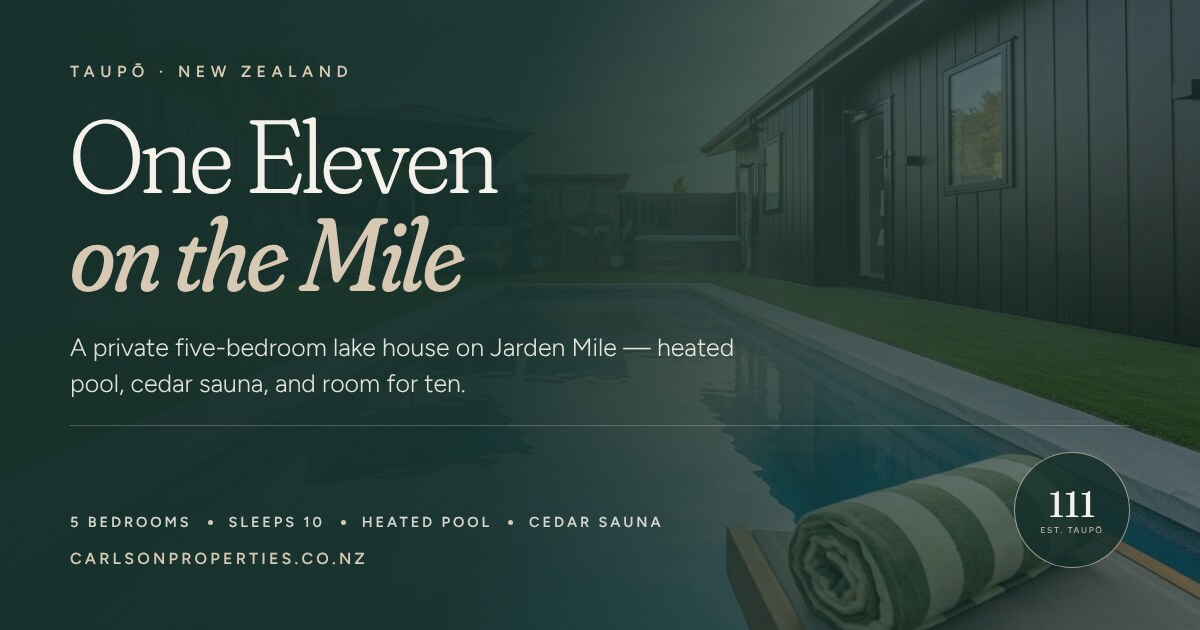
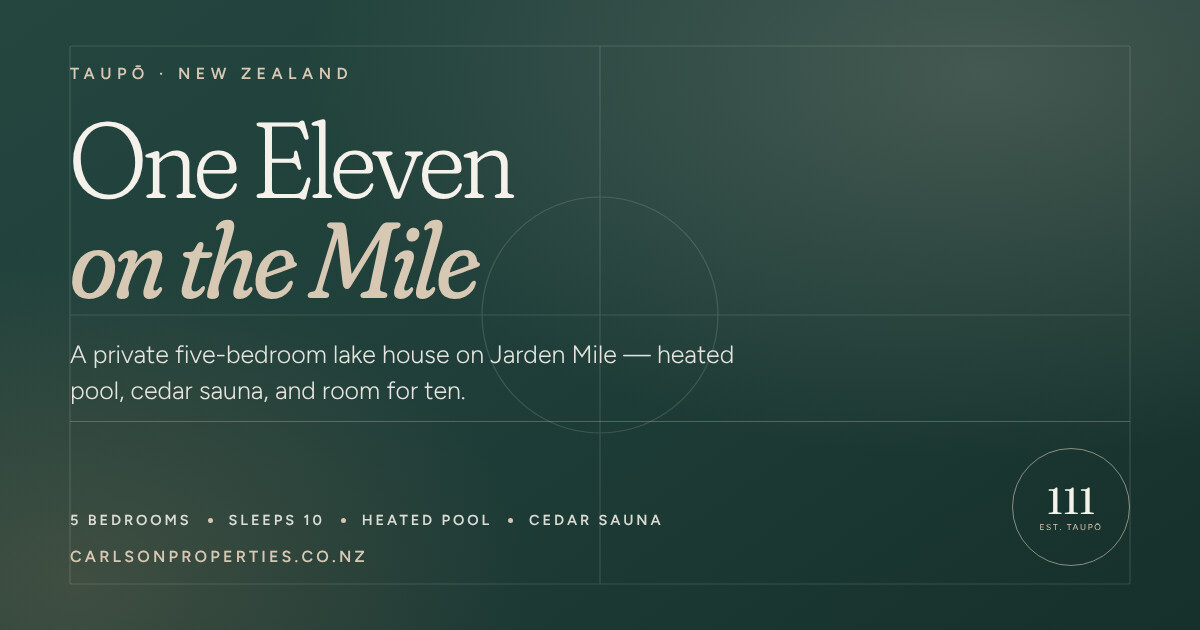
Use real property photography in the daily rhythm section
The four images in "The day finds its own rhythm here" were generated,
not photographs of the house. Replaced with real Website Media shots,
each matched to its moment:

  07:30  Coffee on the cedar deck  ->  outdoor lounge.png
  11:00  A swim, even in July      ->  pool featurephoto.png
  16:30  Sauna, then the spa       ->  sauanaspa.jpg
  20:00  The table and the fire    ->  Open plan living.jpg

All four filenames are already used elsewhere in the app, so they are
known to exist in the bucket. They now resolve through getImageUrl()
rather than being hardcoded, so the bucket and project live in one place.

Deleted the four generated files and their WebP variants. The <picture>
element went with them — it existed to pair local JPEG/WebP, and these
are remote originals.

Also rebuilt the social card, which had used the generated pool image as
its background and carried the same problem. It is now purely
typographic: brand gradient, the surveyed court-line motif from the
walkthrough, Fraunces and Figtree, and the 111 seal. No photography and
nothing fabricated. A real photograph can be dropped behind it later if
wanted.

Verified in headless Chromium: the four <img> elements resolve to the
real filenames, no requests remain for the deleted files, no page errors.

Claude-Session: https://claude.ai/code/session_014u64PBox1n21vMMrxdXUrP

diff --git a/src/app/components/ClubhouseGuestWorld.tsx b/src/app/components/ClubhouseGuestWorld.tsx
@@ -3,6 +3,7 @@ import { motion } from 'motion/react';
 import { Coffee, Waves, Thermometer, Flame, Check } from 'lucide-react';
 import { ScallopedSeal, OvalBadge } from './ClubMarks';
 import { Link } from 'react-router';
+import { getImageUrl } from '../lib/images';
 
 /**
  * ClubhouseGuestWorld — how a day at One Eleven actually runs.
@@ -29,7 +30,7 @@ const RITUALS: Ritual[] = [
     desc: 'The espresso machine goes on, the mist lifts off the lake, and the deck takes the early sun. Nobody is anywhere they have to be.',
     icon: Coffee,
     badge: 'Barista Espresso Bar',
-    image: '/images/rituals/ritual-01-coffee.jpg',
+    image: getImageUrl('outdoor lounge.png'),
   },
   {
     time: '11:00',
@@ -37,7 +38,7 @@ const RITUALS: Ritual[] = [
     desc: 'The pool is heated the whole year round. Cold mountain air on your face, steam coming off the water, Mount Tauhara across the lake.',
     icon: Waves,
     badge: 'Heated Year-Round',
-    image: '/images/rituals/ritual-02-swim.jpg',
+    image: getImageUrl('pool featurephoto.png'),
   },
   {
     time: '16:30',
@@ -45,7 +46,7 @@ const RITUALS: Ritual[] = [
     desc: 'The 4-person rectangular cedar sauna warms up in the courtyard and the hydrotherapy spa sits just steps away. Guests keep telling us this is the part that makes the house hard to leave.',
     icon: Thermometer,
     badge: '4-Person Sauna · Spa · Pool',
-    image: '/images/rituals/ritual-03-sauna.jpg',
+    image: getImageUrl('sauanaspa.jpg'),
   },
   {
     time: '20:00',
@@ -53,7 +54,7 @@ const RITUALS: Ritual[] = [
     desc: 'Ten seats gather around the dining table, the double-sided fireplace warms the living room, and the lake goes dark outside the glass. Town is five minutes away if you want it.',
     icon: Flame,
     badge: 'Double-Sided Fire · Seats 10',
-    image: '/images/rituals/ritual-04-dining.jpg',
+    image: getImageUrl('Open plan living.jpg'),
   },
 ];
 
@@ -123,21 +124,17 @@ export const ClubhouseGuestWorld: React.FC = () => {
               className="group flex flex-col justify-between overflow-hidden rounded-3xl border border-[#D7C8B4] bg-white text-left shadow-md transition-all duration-500 hover:-translate-y-2 hover:shadow-2xl"
             >
               <div>
-                {/* Ritual image. Full colour by design — the greyscale-to-colour
-                    accent is reserved for the hosts page so it stays a moment. */}
+                {/* Real property photography, not generated imagery. Full colour by
+                    design — the greyscale-to-colour accent is reserved for the
+                    hosts page so it stays a moment. */}
                 <div className="relative aspect-[4/3] w-full overflow-hidden bg-[#203F3A]/5">
-                  <picture>
-                    <source srcSet={r.image.replace(/\.jpg$/, ".webp")} type="image/webp" />
-                    <img
-                      src={r.image}
-                      alt={r.title}
-                      loading="lazy"
-                      decoding="async"
-                      width={1264}
-                      height={848}
-                      className="h-full w-full object-cover transition-transform duration-700 ease-out group-hover:scale-105"
-                    />
-                  </picture>
+                  <img
+                    src={r.image}
+                    alt={r.title}
+                    loading="lazy"
+                    decoding="async"
+                    className="h-full w-full object-cover transition-transform duration-700 ease-out group-hover:scale-105"
+                  />
                   <div className="absolute inset-0 bg-gradient-to-t from-black/45 via-transparent to-black/25" />
                   <div className="absolute top-4 left-4 flex items-center gap-1.5 rounded-full border border-white/20 bg-black/50 px-3 py-1 backdrop-blur-md">
                     <span className="font-serif text-sm font-light text-[#F4F1EA]">
